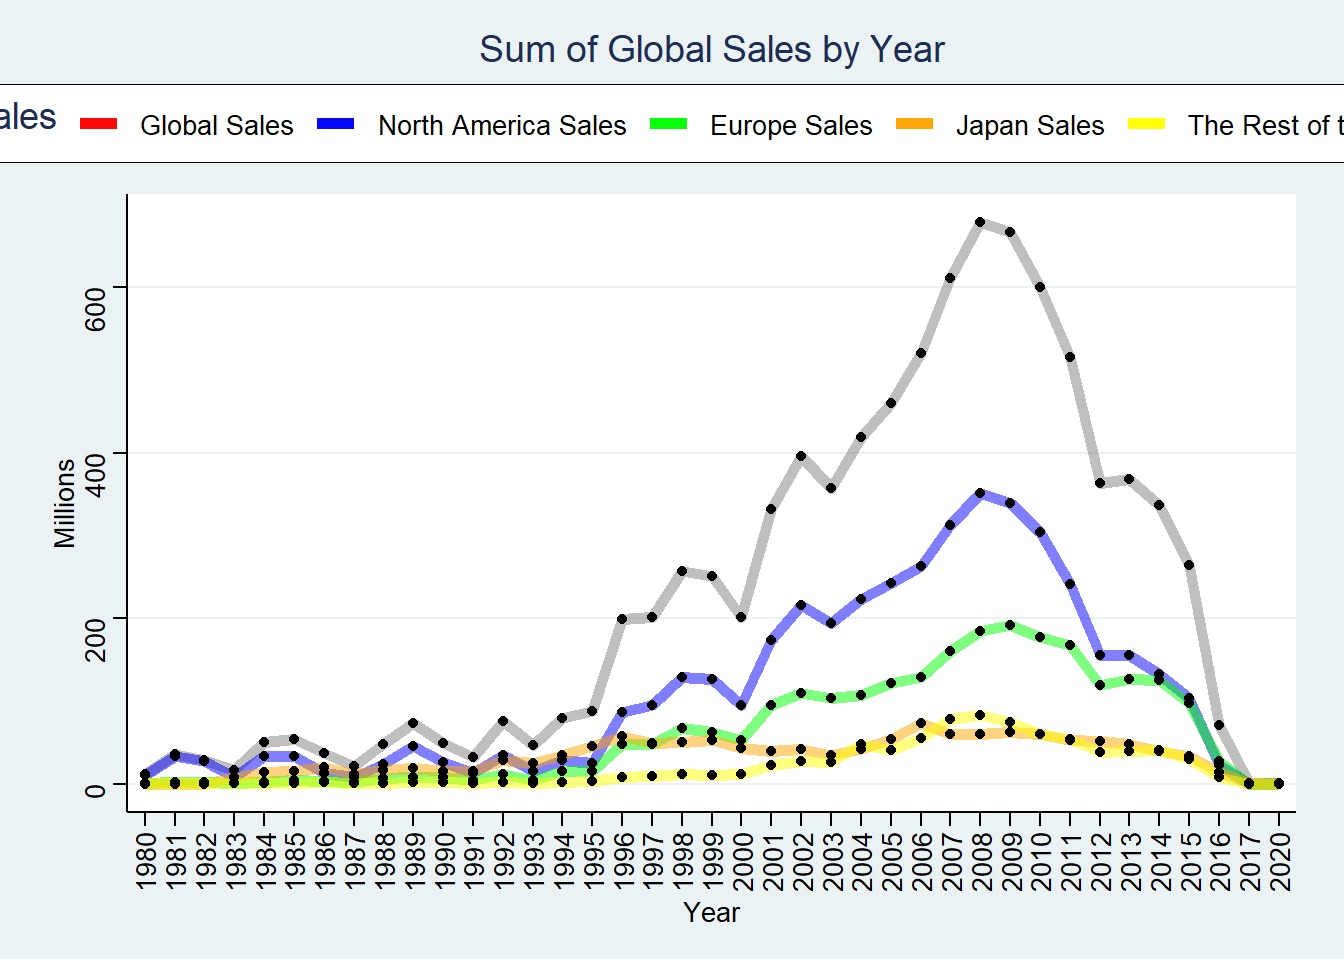
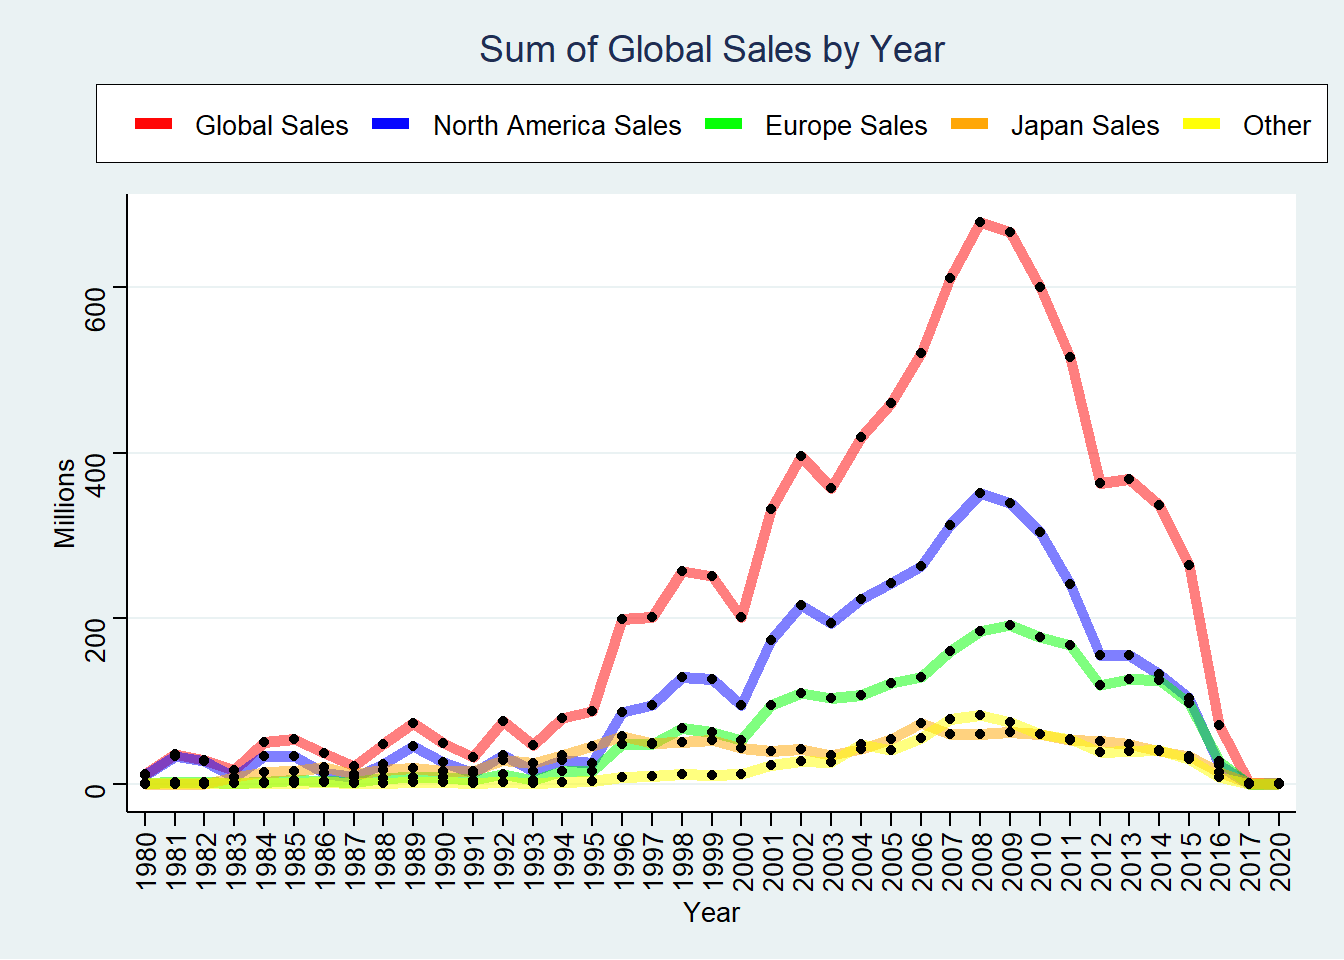
update

diff --git a/content/post/2022-11-08-video-games/index.html b/content/post/2022-11-08-video-games/index.html
@@ -29,20 +29,20 @@ tags:
               sum_na_sales = sum(NA_Sales),.groups = &#39;drop&#39;)
 
 colors &lt;- c(&quot;Global Sales&quot;=&quot;red&quot;, &quot;North America Sales&quot;=&quot;blue&quot;, &quot;Europe Sales&quot;=&quot;green&quot;, &quot;Japan Sales&quot;=&quot;orange&quot;,
-            &quot;The Rest of the World&quot;=&quot;yellow&quot;)
-options(repr.plot.width = 16, repr.plot.height = 8)
+            &quot;Other&quot;=&quot;yellow&quot;)
+options(repr.plot.width = 20, repr.plot.height = 8)
 ggplot(data=sumofsales, aes(x= Year)) +
-  geom_line(aes(y= sum_global_sales,group=1,color=&quot;Total Sales&quot;),size = 2, alpha = 0.5)+
+  geom_line(aes(y= sum_global_sales,group=1,color=&quot;Global Sales&quot;),size = 2, alpha = 0.5)+
   geom_line(aes(y= sum_na_sales,group=1,color=&quot;North America Sales&quot;),size = 2, alpha = 0.5)+
   geom_line(aes(y= sum_eu_sales,group=1,color=&quot;Europe Sales&quot;),size = 2, alpha = 0.5)+
   geom_line(aes(y= sum_jb_sales,group=1,color=&quot;Japan Sales&quot;),size = 2, alpha = 0.5)+
-  geom_line(aes(y= sum_others_sales,group=1,color=&quot;The Rest of the World&quot;),size = 2, alpha = 0.5)+
+  geom_line(aes(y= sum_others_sales,group=1,color=&quot;Other&quot;),size = 2, alpha = 0.5)+
   geom_point(aes(y= sum_global_sales)) +
   geom_point(aes(y= sum_na_sales)) +
   geom_point(aes(y= sum_eu_sales)) +
   geom_point(aes(y= sum_jb_sales)) +
   geom_point(aes(y= sum_others_sales)) +
-  scale_color_manual(name=&quot;Sales&quot;,values = colors)+
+  scale_color_manual(name=&quot;&quot;,values = colors)+
   ggtitle(&quot;Sum of Global Sales by Year&quot;) +
   ylab(&quot;Millions&quot;) +
   theme_stata()+
@@ -58,7 +58,7 @@ games_sales10 &lt;- head(games_sales10, 10)
 games_totalsales &lt;- games_sales10 %&gt;%
   mutate(Name = fct_reorder(Name, sum_global_sales, .desc = TRUE))
 
-options(repr.plot.width = 16, repr.plot.height = 8)
+options(repr.plot.width = 20, repr.plot.height = 8)
 ggplot(data= games_totalsales, aes(x= Name, y=sum_global_sales)) +
   geom_bar(stat = &quot;identity&quot;,  aes(x= Name, y=sum_global_sales,fill=Name))+
   ggtitle(&quot;Top-10 Games by Sales&quot;) +
@@ -76,7 +76,7 @@ ggplot(data= games_totalsales, aes(x= Name, y=sum_global_sales)) +
 games_totalsales &lt;- games_sales10 %&gt;%
   mutate(Name = fct_reorder(Year, sum_global_sales, .desc = TRUE))
 
-options(repr.plot.width = 16, repr.plot.height = 8)
+options(repr.plot.width = 20, repr.plot.height = 8)
 ggplot(data= games_totalsales, aes(x= Year, y=sum_global_sales)) +
   geom_bar(stat = &quot;identity&quot;,  aes(x= Year, y=sum_global_sales,fill=Name))+
   ggtitle(&quot;Yearly Sales&quot;) +
@@ -101,7 +101,7 @@ games_totalsales &lt;- games_sales10 %&gt;%
 options(repr.plot.width = 16, repr.plot.height = 8)
 ggplot(data= games_totalsales, aes(x= Publisher, y=sum_global_sales)) +
   geom_bar(stat = &quot;identity&quot;,  aes(x= Publisher, y=sum_global_sales,fill=Name))+
-  ggtitle(&quot;Yearly Sales&quot;) +
+  ggtitle(&quot;Publisher Sales&quot;) +
   ylab(&quot;Millions&quot;) +
   xlab(&quot;&quot;)+
   theme_stata()+
